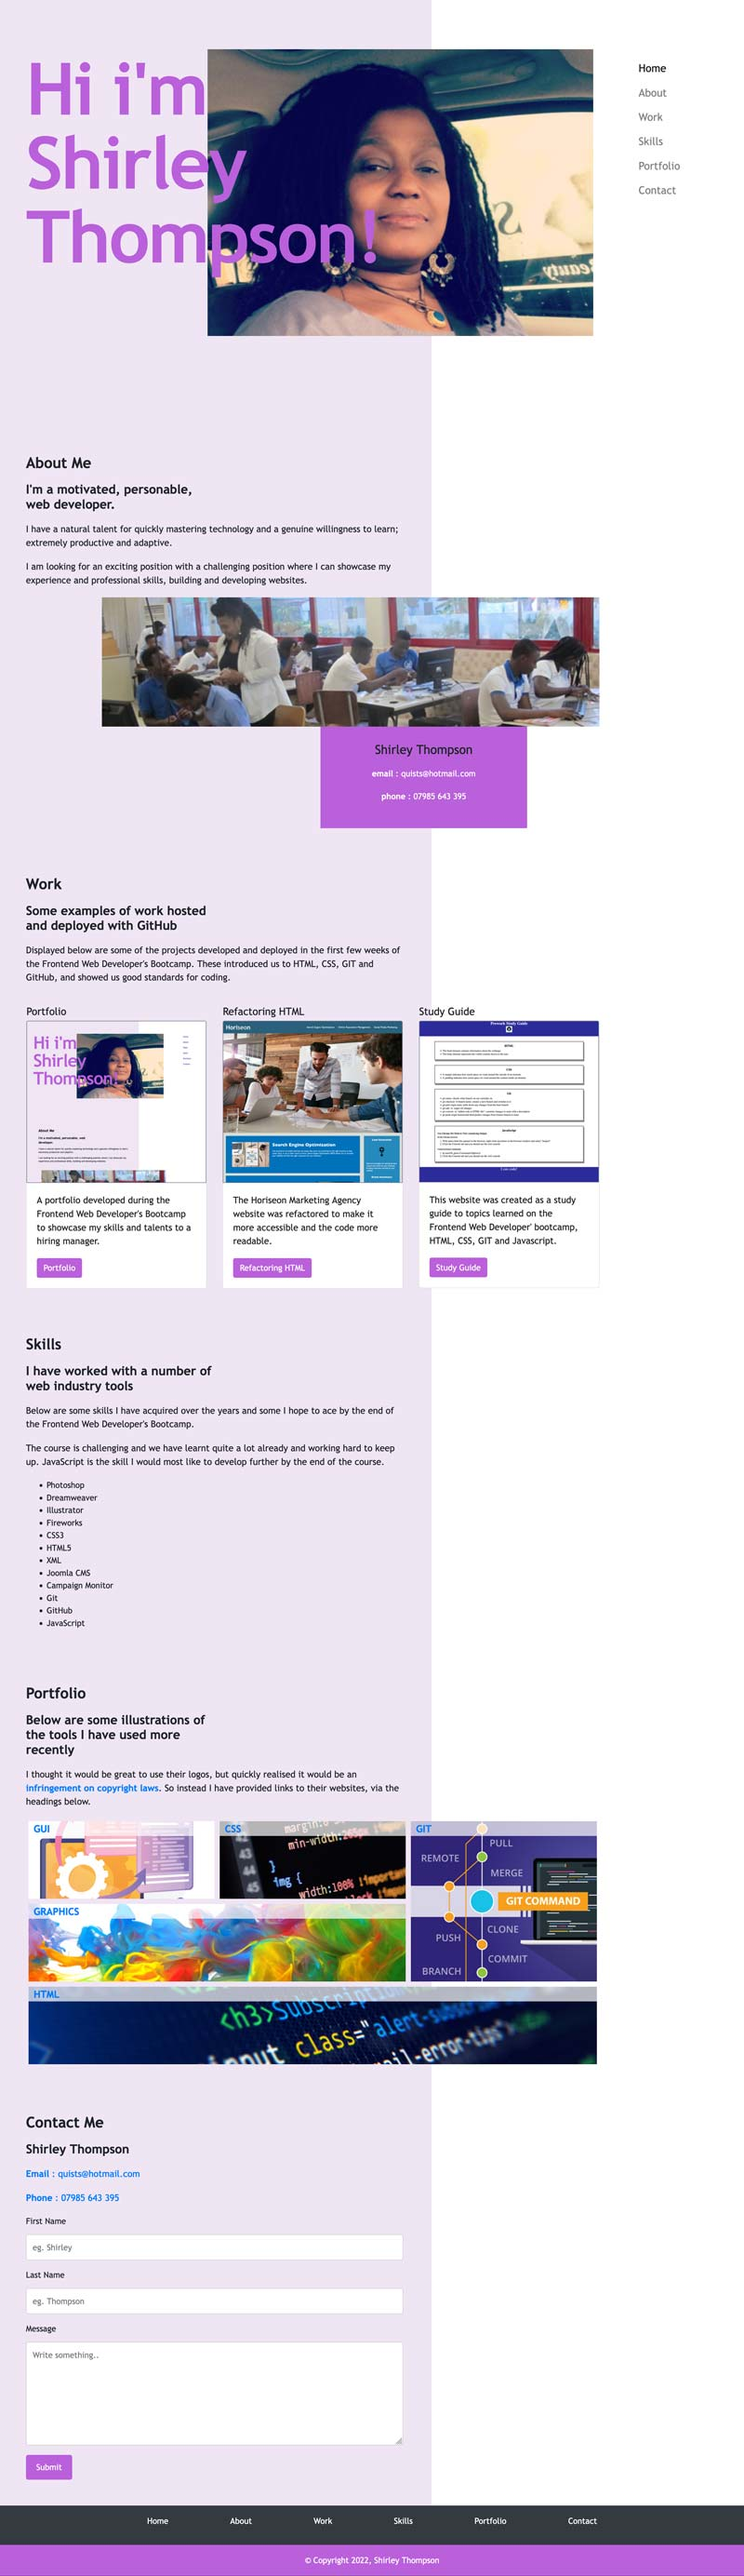
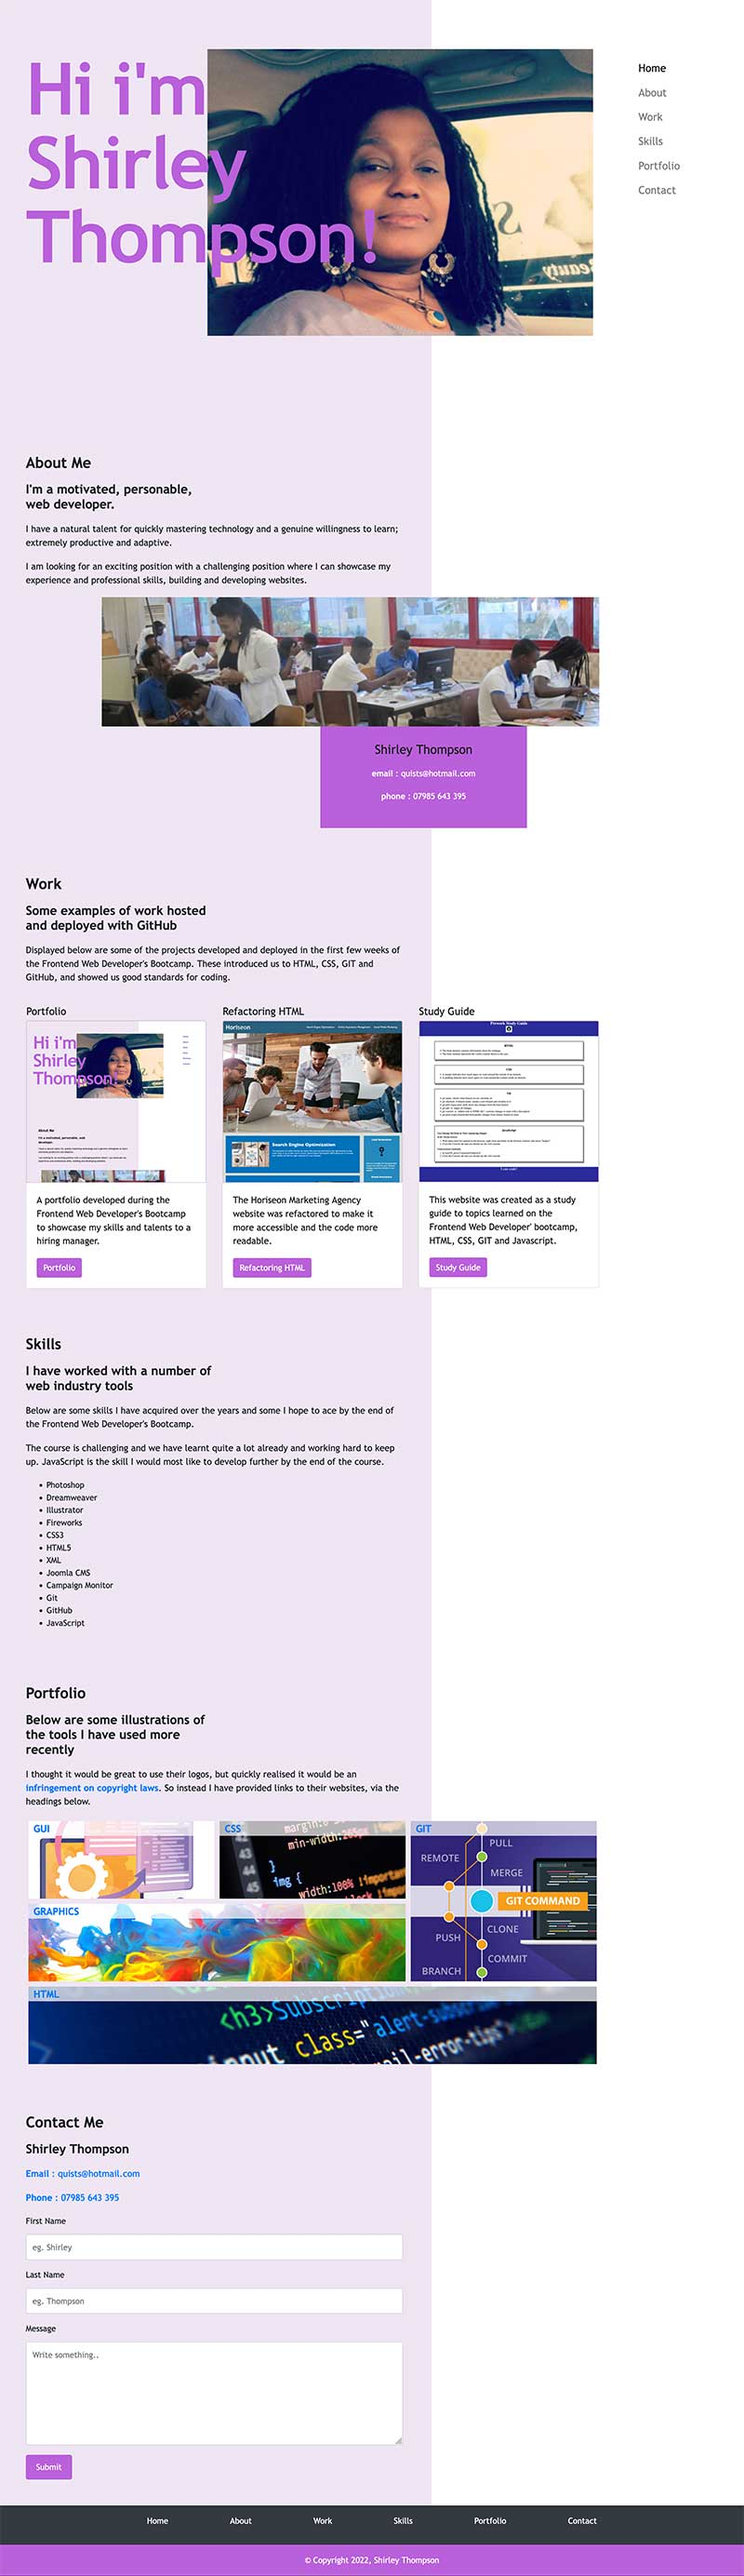
updated screenshot

diff --git a/assets/css/style.css b/assets/css/style.css
@@ -141,7 +141,7 @@ a {
 }
 
 .card img {
-  border: 1px solid rgb(119, 119, 146);
+  border: 1px solid #d6badf;
 }
 
 .card-title {
